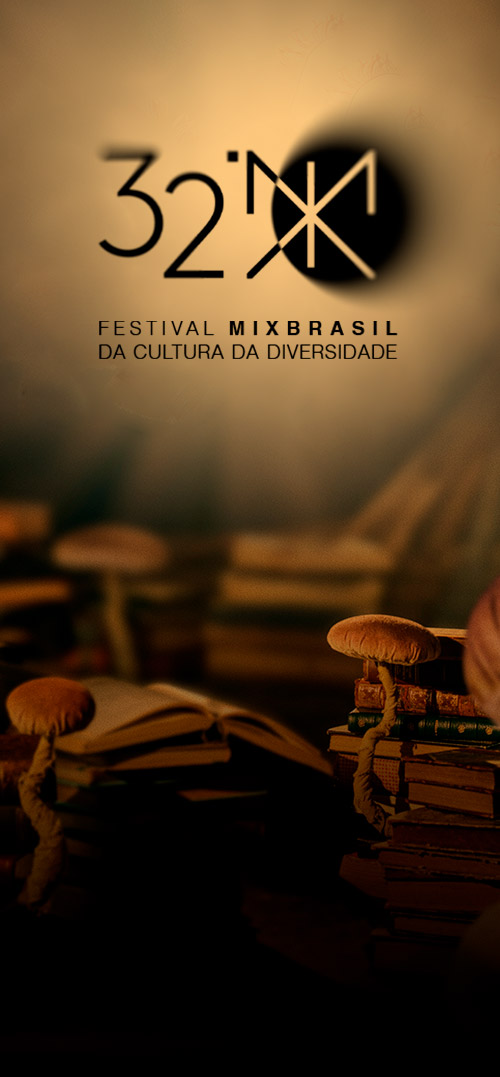
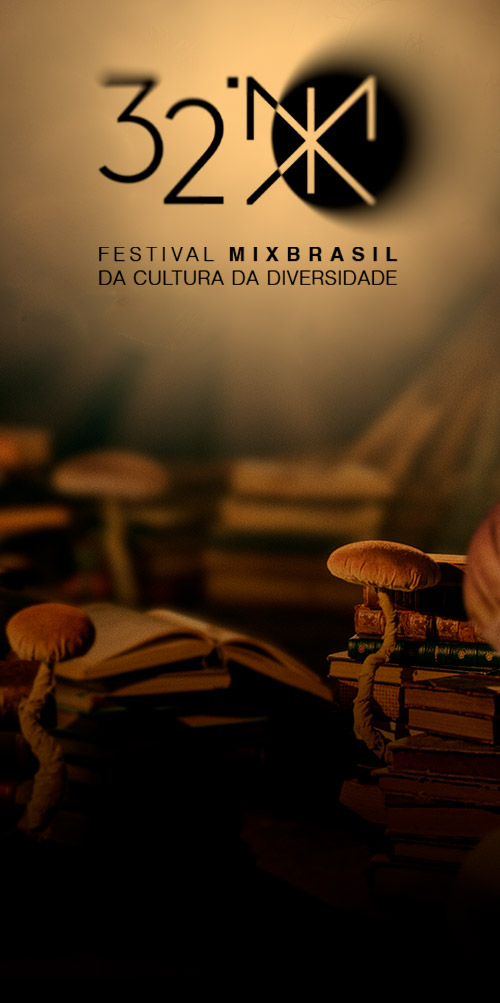
adaptando para dispositivos moveis

diff --git a/index.html b/index.html
@@ -24,36 +24,35 @@
     
     <!-- abre efeito mariposa -->
     
-    <div style="height: 30vh"></div>
-        <svg id="mariposa-scroll" xmlns="http://www.w3.org/2000/svg" xmlns:xlink="http://www.w3.org/1999/xlink" x="0px" y="0px" viewBox="0 0 1588.4 500.3">
-            <defs>
-                <clipPath id="clip-path">
-                <rect id="Rectangle_2885" data-name="Rectangle 2885" width="89.252" height="72.066" fill="none"/>
-                </clipPath>
-            </defs>
-            <style type="text/css">
-                .st0{fill:none;}
-            </style>
-    
-            <path id="motionPath" class="st0" d="M37.5,31C32.5,41.2,52.3,122.6,358,237.2c222.1,69.8,610.9-11.5,861.3,82.5
-                                                c-24.6,284.5-286.8,140-346.4,140c-182.9-15.9-269.3,213.5-155.7,344.2c118,135.7,31.2,223.3,392,144.9
-                                                c158.4-34.4,182.2,81,177.4,136.5c-26.9,51.3-27.4,334.3-150.7,382.5c-112.9,44.1-263.8-30.3-397.7-64.7
-                                                " stroke-miterlimit="10" stroke-width="5" stroke-dasharray="5"/>
-        </svg>
-        
-        <div id="motionIMG" data-name="Group 1117">
-            <img src="img/Mariposa-300.png" class="mariposa" clip-path="url(#clip-path) />                
-        </div>
+    <div style="height: 25vh"></div>
+        <div class="area-efeito">
 
+            <div id="mariposa-scroll">
+                <svg id="meuSvg" xmlns="http://www.w3.org/2000/svg" xmlns:xlink="http://www.w3.org/1999/xlink" x="0px" y="0px" viewBox="20 30 1450 1600.3">
+                    <defs>
+                        <clipPath id="clip-path">
+                        <rect id="Rectangle_2885" data-name="Rectangle 2885" width="300" height="155" fill="none"/>
+                        </clipPath>
+                    </defs>
+                    <style type="text/css">
+                        .st0{fill:none;}
+                    </style>
+            
+                    <path id="motionPath" class="st0" d="M37.5,31C32.5,41.2,52.3,122.6,358,237.2c222.1,69.8,610.9-11.5,861.3,82.5
+                                                        c-24.6,284.5-286.8,140-346.4,140c-182.9-15.9-269.3,213.5-155.7,344.2c118,135.7,31.2,223.3,392,144.9
+                                                        c158.4-34.4,182.2,81,177.4,136.5c-26.9,51.3-27.4,334.3-150.7,382.5c-112.9,44.1-263.8-30.3-397.7-64.7
+                                                        " stroke-miterlimit="10" stroke-width="5" stroke-dasharray="5"/>
+                    <image id="motionIMG" class="mariposa" xlink:href="img/mariposa-300.png" width="300" height="155" clip-path="url(#clip-path)" />
+                </svg>
+            </div>
 
-        
+        </div>    
     <div style="height: 30vh"></div>
 <!-- fecha efeito mariposa -->
 
     <div class="texto-destaque">
      <h1>É NA LUZ QUE A GENTE SE ENCONTRA</h1>
     </div> 
-    <div style="margin-top:900px;"></div>
 
 <script src="javascript.js" type="text/javascript"></script>
 </body>

diff --git a/style.css b/style.css
@@ -1,60 +1,66 @@
 body {
-    background: url(img/BG-MixBrasil-Edicao-32-V3.jpg) #000 center top no-repeat;
-    color: white;
-    font-family: "Roboto", "Helvetica Neue", Arial, Helvetica, Geneva, sans-serif; 
-    font-weight: 200;
-    font-size: 17px;
-    text-align: center;
-    height: 270vh;
-    max-width: 100%;
-  }
+  background: url(img/BG-MixBrasil-Edicao-32-V3.jpg) #000 center top no-repeat;
+  color: white;
+  font-family: "Roboto", "Helvetica Neue", Arial, Helvetica, Geneva, sans-serif; 
+  font-weight: 200;
+  font-size: 17px;
+  text-align: center;
+  height: 270vh;
+  max-width: 100%;
+}
 
-  .scroll-custom {
+.scroll-custom {
   scrollbar-color: rgb(28, 28, 28) rgb(0, 0, 0);
   scrollbar-width: thin; 
-  }
+}
 
-  h1 {
-    color: #fff75b;
-    font-weight: 100;
-    font-size: 3em;
-    letter-spacing: 0.6em;
-    margin-top: 40vh;
-    padding-top: 2em;
+h1 {
+  color: #fff75b;
+  font-weight: 100;
+  font-size: 3em;
+  letter-spacing: 0.6em;
+  margin-top: 40vh;
+  padding-top: 2em;
+}
+
+.area-efeito {
+  width: 100%;
+  position: absolute;
+  margin: 0 auto;
+}
+
+
+#mariposa-scroll-2 {
+  display: none;
+}
+
+.texto-destaque {
+  width: 58%;
+  margin: 0 auto;
+  padding-top: 400px;
+}
+
+  
+@media screen and (max-width: 500px) {
+  body {
+    background: url(img/MIX32-BG-MOB-4.jpg) center top no-repeat #000;
   }
 
   .texto-destaque {
-    width: 58%;
+    width: 80%;
     margin: 0 auto;
+    font-size: 0.6em;
+    padding-top: 80px;
   }
 
-  #output {
-    position: fixed;
-    bottom: 20px;
-    width: 100%;
-    text-align: center;
-    font-size: 21px;
-    pointer-events: none;
+  .texto-destaque-fonte h1 {
+    color: #fff75b;
+    font-weight: 100;
+    letter-spacing: 0.6em;
+    margin-top: 4em;
+    padding-top: 2em;
   }
-  
-  @media screen and (max-width: 500px) {
-    body {
-      background: url(img/MIX32-BG-MOB-4.jpg) center top no-repeat #000;
-    }
-  
-    .texto-destaque {
-      width: 80%;
-      margin: 0 auto;
-    }
-    .texto-destaque-fonte {
-      color: #fff75b;
-      font-weight: 100;
-      font-size: 1.8em;
-      letter-spacing: 0.6em;
-      margin-top: 4em;
-      padding-top: 2em;
-    }
-  
-  }
+
+}
   
 

diff --git a/javascript.js b/javascript.js
@@ -46,16 +46,6 @@ gsap.from("h1", {
   }
 });
 
-gsap.from(".heroLogoAnim", {
-scrollTrigger: {
-    trigger: ".heroLogoAnim",
-  },
-  duration: 2.5, 
-	opacity: 0, 
-	scale: 0.3, 
-	ease:"back"
-});
-
 
 // começa efeito mariposa
 gsap.registerPlugin(ScrollTrigger, MotionPathPlugin);
@@ -152,3 +142,24 @@ function pathEase(path, config={}) {
     return i ? s + (a[Math.ceil(i)] - s) * (i % 1) : 0;
   }
 }
+
+
+// adaptação efeito mariposa para dipositivos móveis
+const meuSvg = document.getElementById('meuSvg');
+
+function ajustarViewBox() {
+  const larguraTela = window.innerWidth;
+  if (larguraTela < 500) {
+    meuSvg.setAttribute('viewBox', '600 500 600 2000'); // Ajusta para telas menores que 500px
+  } else {
+    meuSvg.setAttribute('viewBox', '20 30 1450 1600.3'); // Ajusta para telas maiores que 500px
+  }
+}
+
+// Chamar a função no carregamento da página e em cada redimensionamento
+window.addEventListener('load', ajustarViewBox);
+window.addEventListener('resize', ajustarViewBox);
+
+
+
+
